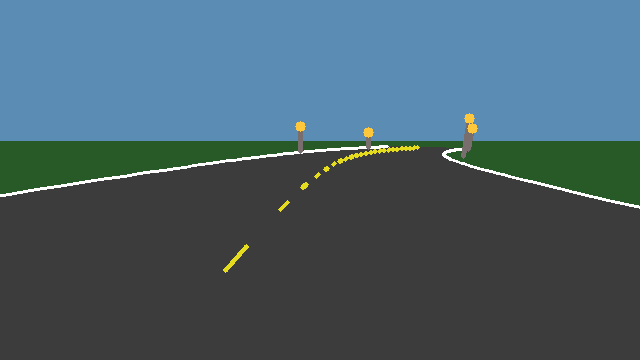
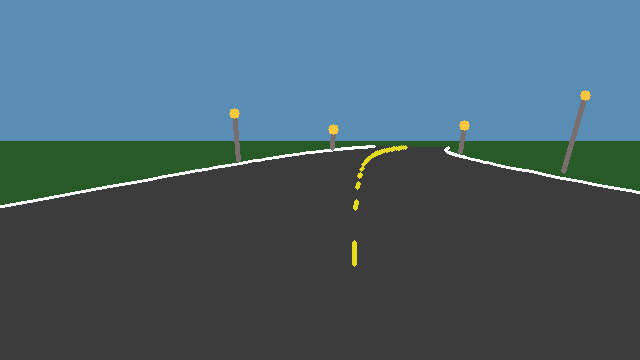
Switch to kinematic bicycle-model steering, tune physics to realistic values
- CarState: replace direct-omega steering with a proper kinematic bicycle
  model (wheelbase + front wheel angle -> omega = (speed/wheelbase)*tan(delta)).
  Fixes the car spinning in place at speed 0 - omega is now zero whenever
  the car isn't rolling, same as a real car
- Add a max_lat_accel (tire grip) cap on omega, since the raw bicycle
  formula alone lets turn rate grow unbounded with speed, implying dozens
  of g at highway speed; the cap models the actual mechanism (tires
  sliding) that limits a real car's turn rate as speed increases
- Sync CarState's own dataclass defaults to match sim_node's config, so a
  standalone CarState() behaves the same as the sim
- Tune max_accel/max_decel/friction_decel/max_speed/max_lat_accel to sit
  in realistic road-car ranges (0.5g/1.0g/0.2g/50 m/s/1.5g)

Docs: rewrite the car_model.py README section for the bicycle model and
grip cap, update the parameter table and add a realistic-range reference
table for all car-physics defaults, refresh all three example screenshots.

diff --git a/car_sim/sim_node.py b/car_sim/sim_node.py
@@ -1,3 +1,5 @@
+import math
+
 import rclpy
 from rclpy.node import Node
 from sensor_msgs.msg import Image
@@ -54,8 +56,17 @@ class SimNode(Node):
             pole_spacing=self.pole_spacing, pole_side_offset=self.pole_side_offset,
             lane_dash_length=self.lane_dash_length, lane_dash_gap=self.lane_dash_gap)
         self.car = CarState(
-            yaw_rate=self.yaw_rate, max_accel=self.max_accel, max_decel=self.max_decel,
+            wheelbase=self.wheelbase, max_steer_angle=math.radians(self.max_steer_angle_deg),
+            max_lat_accel=self.max_lat_accel, max_accel=self.max_accel, max_decel=self.max_decel,
             friction_decel=self.friction_decel, max_speed=self.max_speed)
+        # Peak achievable |omega| given the wheelbase/steering/grip limits -
+        # used only as the HUD gauge's display range (omega itself still
+        # comes straight from CarState each tick, this is just a sensible
+        # full-scale for the bar). Occurs where the raw bicycle-model omega
+        # equals the grip-limited omega: v* = sqrt(max_lat_accel*L/tan(delta_max)).
+        delta_max = math.radians(self.max_steer_angle_deg)
+        self.omega_display_range = math.sqrt(
+            self.max_lat_accel * math.tan(delta_max) / self.wheelbase)
         self.camera = PinholeCamera(
             self.cam_width, self.cam_height, self.cam_hfov_deg,
             self.cam_mount_height, self.cam_pitch_deg)
@@ -87,11 +98,13 @@ class SimNode(Node):
 
     def _declare_params(self):
         p = self.declare_parameter
-        p('yaw_rate', 2.0)
-        p('max_accel', 10.0)       # m/s^2, up-arrow acceleration
-        p('max_decel', 20.0)       # m/s^2, down-arrow braking (stronger than accel)
-        p('friction_decel', 5.0)   # m/s^2, passive coast-down with no throttle input
-        p('max_speed', 30.0)       # m/s
+        p('wheelbase', 2.7)         # meters, front-to-rear axle distance
+        p('max_steer_angle_deg', 35.0)  # degrees, front wheel limit
+        p('max_lat_accel', 14.71)  # m/s^2, tire grip limit (~1.5 g), caps omega at speed
+        p('max_accel', 5.0)        # m/s^2, up-arrow acceleration
+        p('max_decel', 10.0)       # m/s^2, down-arrow braking (stronger than accel)
+        p('friction_decel', 2.0)   # m/s^2, passive coast-down with no throttle input
+        p('max_speed', 50.0)       # m/s
         p('road_seed', 42)
         p('road_width', 16.2)
         p('waypoint_spacing', 0.5)
@@ -128,7 +141,9 @@ class SimNode(Node):
 
     def _load_params(self):
         g = lambda name: self.get_parameter(name).value  # noqa: E731
-        self.yaw_rate = g('yaw_rate')
+        self.wheelbase = g('wheelbase')
+        self.max_steer_angle_deg = g('max_steer_angle_deg')
+        self.max_lat_accel = g('max_lat_accel')
         self.max_accel = g('max_accel')
         self.max_decel = g('max_decel')
         self.friction_decel = g('friction_decel')
@@ -238,7 +253,7 @@ class SimNode(Node):
             throttle=self.throttle, accel=self.car.accel,
             max_accel=self.max_accel, max_decel=self.max_decel,
             speed=self.car.speed, max_speed=self.max_speed,
-            steering=self.steering, omega=self.car.omega, max_omega=self.yaw_rate,
+            steering=self.steering, omega=self.car.omega, max_omega=self.omega_display_range,
             yaw=self.car.yaw,
             distance_traveled=self.car.distance_traveled,
             target_distance=self.finish_distance_m, elapsed_s=self.elapsed_s)

diff --git a/car_sim/car_model.py b/car_sim/car_model.py
@@ -4,12 +4,21 @@ from dataclasses import dataclass
 
 @dataclass
 class CarState:
-    """Point-mass kinematic car. Both yaw and speed are real integrated
-    state, driven by two independent continuous commands each tick:
+    """Kinematic bicycle-model car: a rigid body with a wheelbase, front
+    wheels that steer, rear wheels that only roll (never slip sideways).
+    Both yaw and speed are real integrated state, driven by two independent
+    continuous commands each tick:
 
     - steering in [-1, 1]: -1 = full left, +1 = full right, proportional in
-      between. omega = -steering * yaw_rate (yaw_rate is the max/full-lock
-      turn rate).
+      between, mapped to a front-wheel angle delta = -steering * max_steer_angle.
+      Turn rate omega = (speed / wheelbase) * tan(delta) - NOT commanded
+      directly. At speed == 0, omega == 0 regardless of steering: turning
+      the wheel while parked doesn't spin the car, same as a real car - you
+      have to be rolling. omega is then capped so the implied lateral
+      acceleration (speed * omega) never exceeds max_lat_accel: a tire can
+      only generate so much sideways force before it slides, which is what
+      actually stops a real car's turn rate from growing without bound as
+      speed increases (the bicycle-model formula alone has no such limit).
     - throttle in [-1, 1]: >0 accelerates (proportional up to max_accel),
       <0 brakes (proportional up to max_decel, stronger than max_accel,
       same as a real car). At throttle == 0, a small constant
@@ -25,17 +34,26 @@ class CarState:
     omega: float = 0.0  # rad/s, last-applied yaw rate (read-only, set by step())
     accel: float = 0.0  # m/s^2, last-applied acceleration (read-only, set by step())
 
-    yaw_rate: float = 1.0        # rad/s, max turn rate
-    max_accel: float = 3.0       # m/s^2
-    max_decel: float = 6.0       # m/s^2, braking
-    friction_decel: float = 1.0  # m/s^2, passive coast-down
-    max_speed: float = 15.0      # m/s
+    # Defaults here match sim_node's current config (config/sim_params.yaml);
+    # kept in sync so a standalone CarState() behaves the same as the sim.
+    wheelbase: float = 2.7           # meters, front-to-rear axle distance
+    max_steer_angle: float = math.radians(35.0)  # radians, front wheel limit
+    max_lat_accel: float = 14.71     # m/s^2, tire grip limit (~1.5 g)
+    max_accel: float = 5.0           # m/s^2 (~0.5 g, realistic road car)
+    max_decel: float = 10.0          # m/s^2, braking (~1.0 g, realistic road car)
+    friction_decel: float = 2.0      # m/s^2, passive coast-down (~0.2 g)
+    max_speed: float = 50.0          # m/s
 
     def step(self, steering, throttle, dt):
         steering = max(-1.0, min(1.0, steering))
         throttle = max(-1.0, min(1.0, throttle))
 
-        self.omega = -steering * self.yaw_rate
+        delta = -steering * self.max_steer_angle
+        omega = (self.speed / self.wheelbase) * math.tan(delta)
+        lat_accel = self.speed * omega
+        if abs(lat_accel) > self.max_lat_accel and self.speed > 1e-6:
+            omega = math.copysign(self.max_lat_accel / self.speed, omega)
+        self.omega = omega
         self.yaw += self.omega * dt
 
         if throttle > 0.0:

diff --git a/README.md b/README.md
@@ -99,22 +99,38 @@ arc-length from the road's start (`s=0`).
 
 ### `car_model.py` — `CarState`
 
-A point-mass kinematic car — no wheels, no tire/grip model, no wheelbase.
-**Both yaw and speed are real integrated state**, each driven by its own
-continuous command every tick:
+A **kinematic bicycle-model** car: a rigid body with a `wheelbase`, front
+wheels that steer, rear wheels that only roll (no sideways slip) — the
+standard model used throughout self-driving/robotics literature (it's what's
+behind controllers like Stanley/Pure Pursuit). **Both yaw and speed are real
+integrated state**, each driven by its own continuous command every tick:
 
 **Steering → yaw** (`steering` in `[-1, 1]`, clamped):
 ```
-omega = -steering * yaw_rate      # yaw_rate = the car's max turn rate (rad/s)
-yaw  += omega * dt
+delta      = -steering * max_steer_angle       # front-wheel angle (radians)
+omega_raw  = (speed / wheelbase) * tan(delta)   # turn rate - NOT commanded directly
+lat_accel  = speed * omega_raw
+if |lat_accel| > max_lat_accel:                 # tire grip limit (~1.5 g default)
+    omega = max_lat_accel / speed  (same sign)  # capped: tires would slide first
+else:
+    omega = omega_raw
+yaw += omega * dt
 ```
-This is a direct proportional throttle on turn rate — half steering gives
-exactly half the yaw rate of full lock. Turn rate is **independent of
-speed** here (unlike a real car, where a given steering angle produces a
-speed-dependent turn rate via wheelbase geometry) — worth knowing if you push
-`yaw_rate` and `max_speed` both high: at high speed a large turn rate implies
-unrealistic lateral acceleration (`v * omega`), since this model has no
-tire-grip limit to cap it. Fine for an arcade feel; not a physics simulator.
+Two things this fixes over a naive "yaw rate = steering command" model:
+1. **At `speed == 0`, `omega == 0` regardless of steering.** Turning the
+   wheel while parked doesn't spin the car — you have to be rolling, same as
+   a real car. (An earlier, simpler version of this sim commanded omega
+   directly, independent of speed, which let the car visibly rotate in
+   place while stationary — physically wrong, and this is the fix.)
+2. **`omega` is capped by `max_lat_accel`.** The raw formula above has no
+   speed limit built in — at high speed a full-lock turn would imply
+   unrealistic lateral g-forces (tens of g at highway speed) since nothing
+   stops `omega` from scaling with speed. Real tires only generate so much
+   sideways force before sliding, which is what actually limits a real car's
+   turn rate at speed; `max_lat_accel` models that limit directly. This also
+   means turning noticeably "weakens" at high speed by design — a wide,
+   gentle arc at high speed and a tight turn at low speed are both the grip
+   cap doing its job, not a bug.
 
 **Throttle → speed** (`throttle` in `[-1, 1]`, clamped):
 ```
@@ -278,7 +294,7 @@ topics publish every tick unconditionally, regardless of what's driving.
 
 | Group | Params |
 |---|---|
-| Car physics | `yaw_rate` (rad/s, max turn rate), `max_accel`, `max_decel`, `friction_decel` (m/s²), `max_speed` (m/s) |
+| Car physics | `wheelbase` (m), `max_steer_angle_deg`, `max_lat_accel` (m/s², tire grip limit), `max_accel`, `max_decel`, `friction_decel` (m/s²), `max_speed` (m/s) |
 | Road | `road_seed`, `road_width`, `waypoint_spacing`, `segment_length`, `max_curvature`, `curvature_rate`, `lookahead`, `keep_behind`, `straight_start_m` |
 | Poles / dashes | `pole_spacing`, `pole_side_offset`, `pole_height`, `lane_dash_length`, `lane_dash_gap` |
 | Sim | `tick_rate` (Hz) |
@@ -286,13 +302,24 @@ topics publish every tick unconditionally, regardless of what's driving.
 | Player view | `player_width_px`, `player_height_px`, `player_hfov_deg`, `player_pitch_deg`, `player_cam_height`, `player_back_offset` (meters behind the car), `player_render_distance` |
 | Map/chase view | `chase_width_px`, `chase_height_px`, `chase_scale` (px/m), `chase_car_x_frac`, `chase_car_y_frac` (car's position as a *fraction* of the canvas, so the whole layout scales seamlessly if you resize the canvas) |
 
-Current defaults for the car-physics group, as a feel reference:
-`yaw_rate=2.0 rad/s`, `max_accel=10.0 m/s²`, `max_decel=20.0 m/s²`,
-`friction_decel=5.0 m/s²`, `max_speed=30.0 m/s`. Note `yaw_rate` and
-`max_speed` interact (see the car_model.py section above) — pushing both
-high at once starts implying unrealistic lateral acceleration, since this
-model has no grip limit to cap it. That's a deliberate simplification for
-now, not an oversight.
+Current defaults for the car-physics group, chosen to sit in realistic
+road-car ranges (with real-world reference values alongside):
+
+| Param | Default | ≈ g | Realistic road-car range |
+|---|---|---|---|
+| `wheelbase` | 2.7 m | — | 2.5–2.8 m (typical sedan) |
+| `max_steer_angle_deg` | 35° | — | ~30–35° typical front-wheel lock |
+| `max_lat_accel` | 14.71 m/s² | 1.5 g | 0.8–1.0 g (road tires) – 1.5 g+ (sticky/track tires); this is on the grippy side, deliberately, for a more responsive high-speed feel |
+| `max_accel` | 5.0 m/s² | 0.5 g | 2.5–4 m/s² (average car) – up to ~9-10 m/s² (quick EV/sports car); 5.0 sits mid-pack, plausible for a sporty car |
+| `max_decel` | 10.0 m/s² | 1.0 g | 8–10 m/s² (road car max braking) |
+| `friction_decel` | 2.0 m/s² | 0.2 g | 0.5–1.5 m/s² (pure rolling resistance/drag); 2.0 is slightly brisk but plausible with some engine braking included |
+| `max_speed` | 50.0 m/s | — | 180 km/h — a fast highway/Autobahn-ish top speed |
+
+`max_lat_accel` and `max_speed` still interact (see the car_model.py section
+above): even with a realistic grip limit, high speed inherently means wide,
+gentle turns rather than tight ones — that's the physically-correct
+trade-off the grip cap enforces, not a bug to fix by raising the cap
+further.
 
 `manual_control_node` has its own params (set via `declare_parameter`
 defaults, not in this yaml): `publish_rate`, `window_width`, `window_height`,
